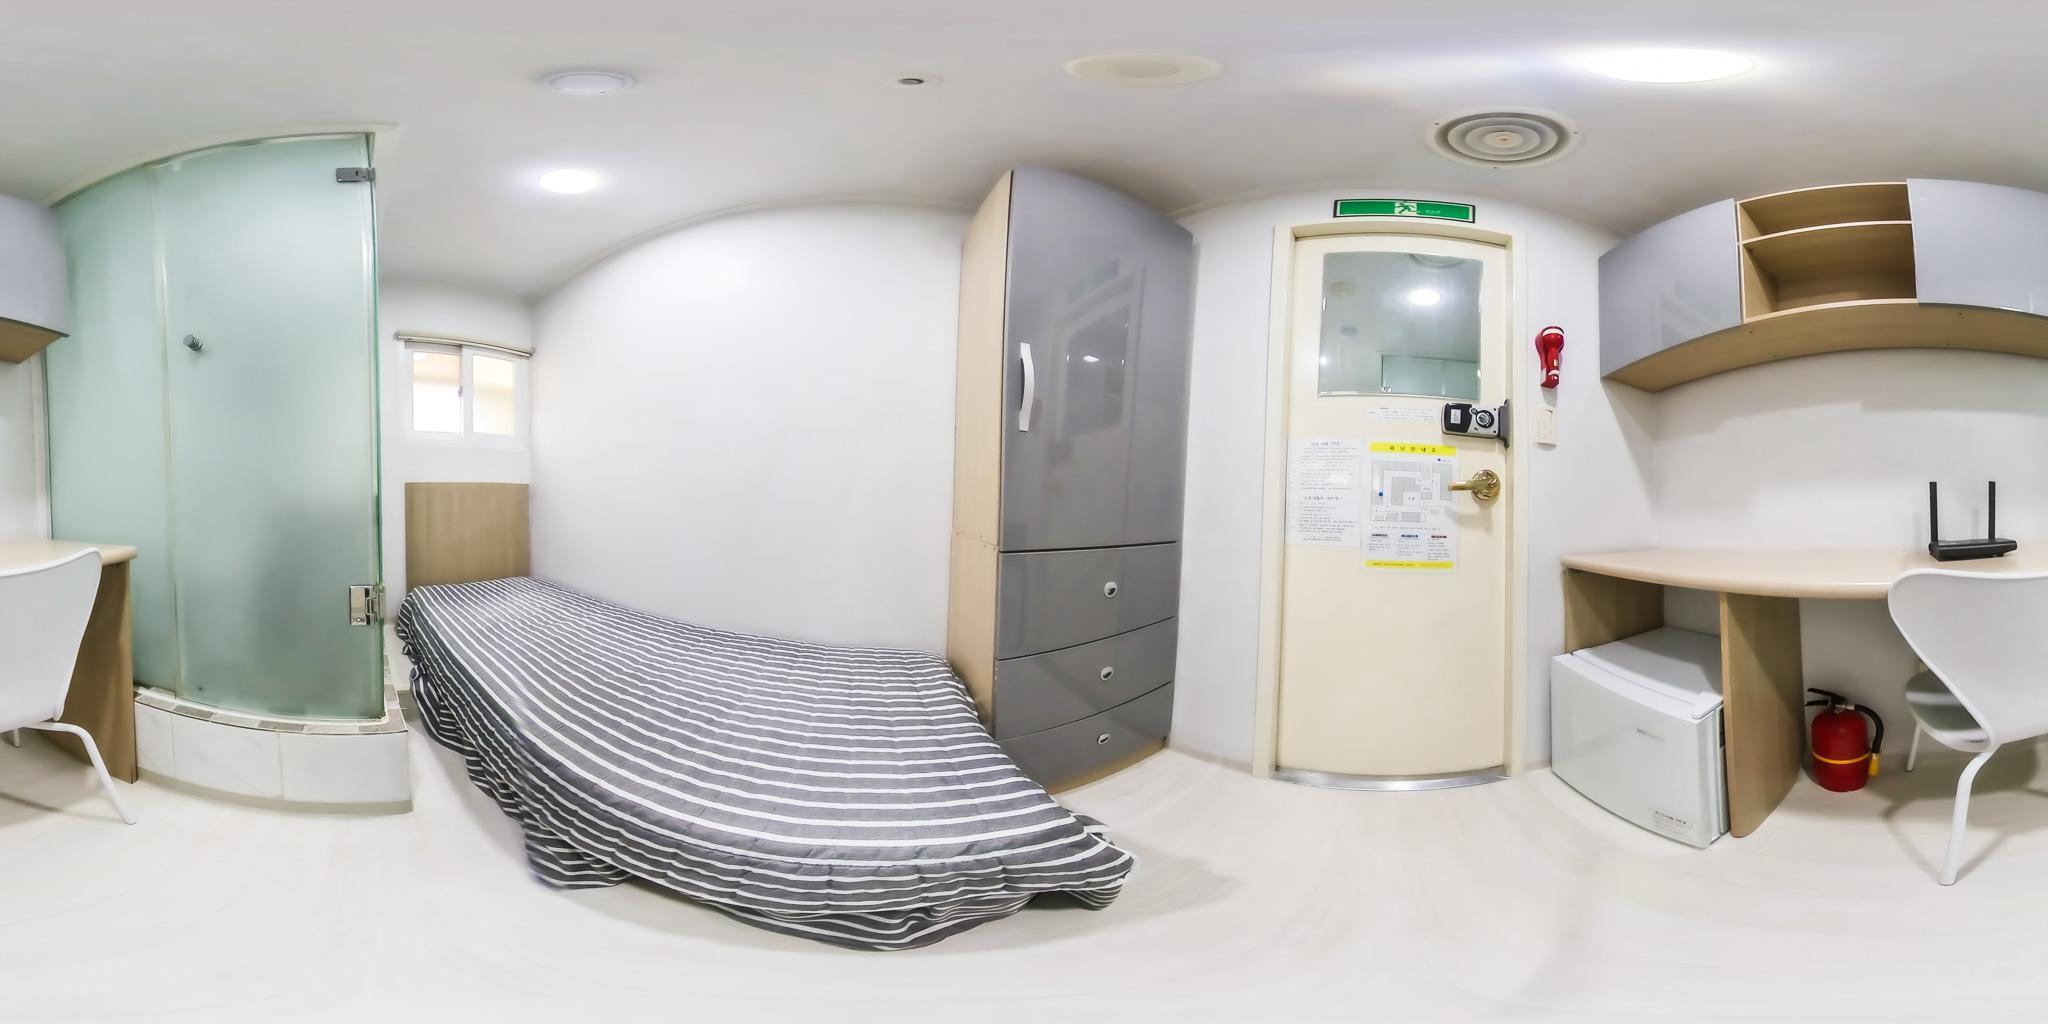
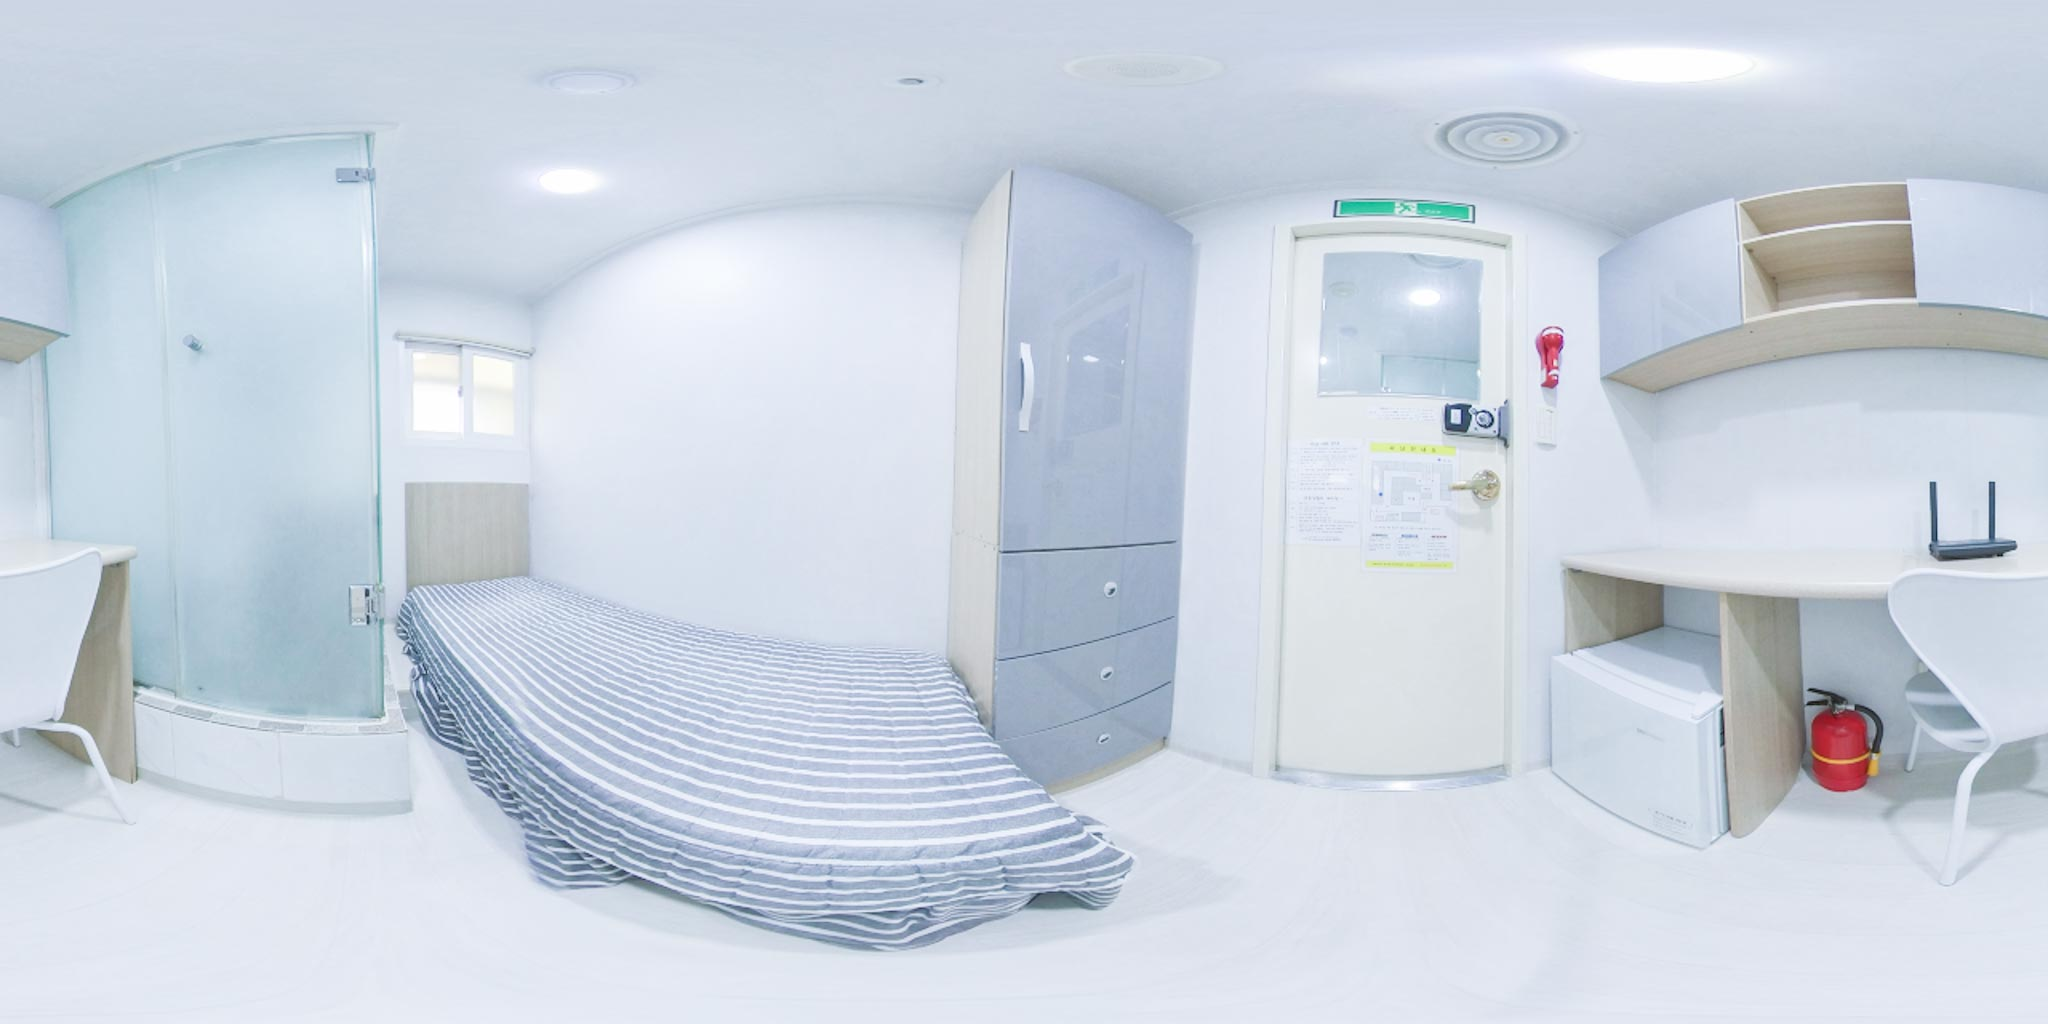
feat(site): 제기역점 갤러리·360 — 418호 추가, 408호 사진 교체
- 360 투어: 418호(원룸 외창/프리미엄 I) 추가 + 408호 위 배치 → 418·408·508 순.
- 408호 360 이미지 교체(room-360-408.jpg).
- 갤러리: 416호(IMG_8959) 제거 → 418호로 교체, 408호도 새 사진(room-408.jpg)으로.
  두 칸 캡션 부여 — '418호 · 원룸 외창/프리미엄 I' / '408호 · 원룸 외창/스탠다드'.
- 408 파일 확장자 .JPG→.jpg 정규화(Vercel 대소문자 구분 404 방지).
- 신규: room-360-418.jpg, room-418.jpg, room-408.jpg.

diff --git a/public/members/thestayjegi/index.html b/public/members/thestayjegi/index.html
@@ -1264,6 +1264,11 @@ footer {
       <h2 class="section-title">머무는 공간을 <em>가까이</em>에서.</h2>
     </div>
 
+    <div class="tour360 reveal" id="tour360-418">
+      <div id="pano418" class="tour360-viewer"></div>
+      <span class="tour360-badge">360° 뷰 · 418호 · 원룸 외창/프리미엄 I</span>
+    </div>
+
     <div class="tour360 reveal" id="tour360">
       <div id="pano" class="tour360-viewer"></div>
       <span class="tour360-badge">360° 뷰 · 408호 · 원룸 외창/스탠다드</span>
@@ -1280,12 +1285,12 @@ footer {
         <span class="gallery-room">401호</span>
       </div>
       <div class="gallery-item reveal delay-1">
-        <img src="/members/thestayjegi/images/IMG_8959.JPG" alt="416호 객실 — 책상과 개별 샤워실" loading="lazy">
-        <span class="gallery-room">416호</span>
+        <img src="/members/thestayjegi/images/room-418.jpg" alt="418호 객실 — 원룸 외창/프리미엄 I" loading="lazy">
+        <span class="gallery-room">418호 · 원룸 외창/프리미엄 I</span>
       </div>
       <div class="gallery-item reveal delay-2">
-        <img src="/members/thestayjegi/images/IMG_1538.jpg" alt="408호 객실 — 개별 샤워실" loading="lazy">
-        <span class="gallery-room">408호</span>
+        <img src="/members/thestayjegi/images/room-408.jpg" alt="408호 객실 — 원룸 외창/스탠다드" loading="lazy">
+        <span class="gallery-room">408호 · 원룸 외창/스탠다드</span>
       </div>
       <div class="gallery-item reveal delay-1">
         <img src="/members/thestayjegi/images/IMG_8936.JPG" alt="422호 객실 — 수납 공간과 개별 욕실" loading="lazy">
@@ -1452,6 +1457,7 @@ window.addEventListener('load', () => {
       });
     }
   }
+  makePano('pano418', '/members/thestayjegi/images/room-360-418.jpg');
   makePano('pano', '/members/thestayjegi/images/room-360-408.jpg');
   makePano('pano508', '/members/thestayjegi/images/room-360-508.jpg');
 });
